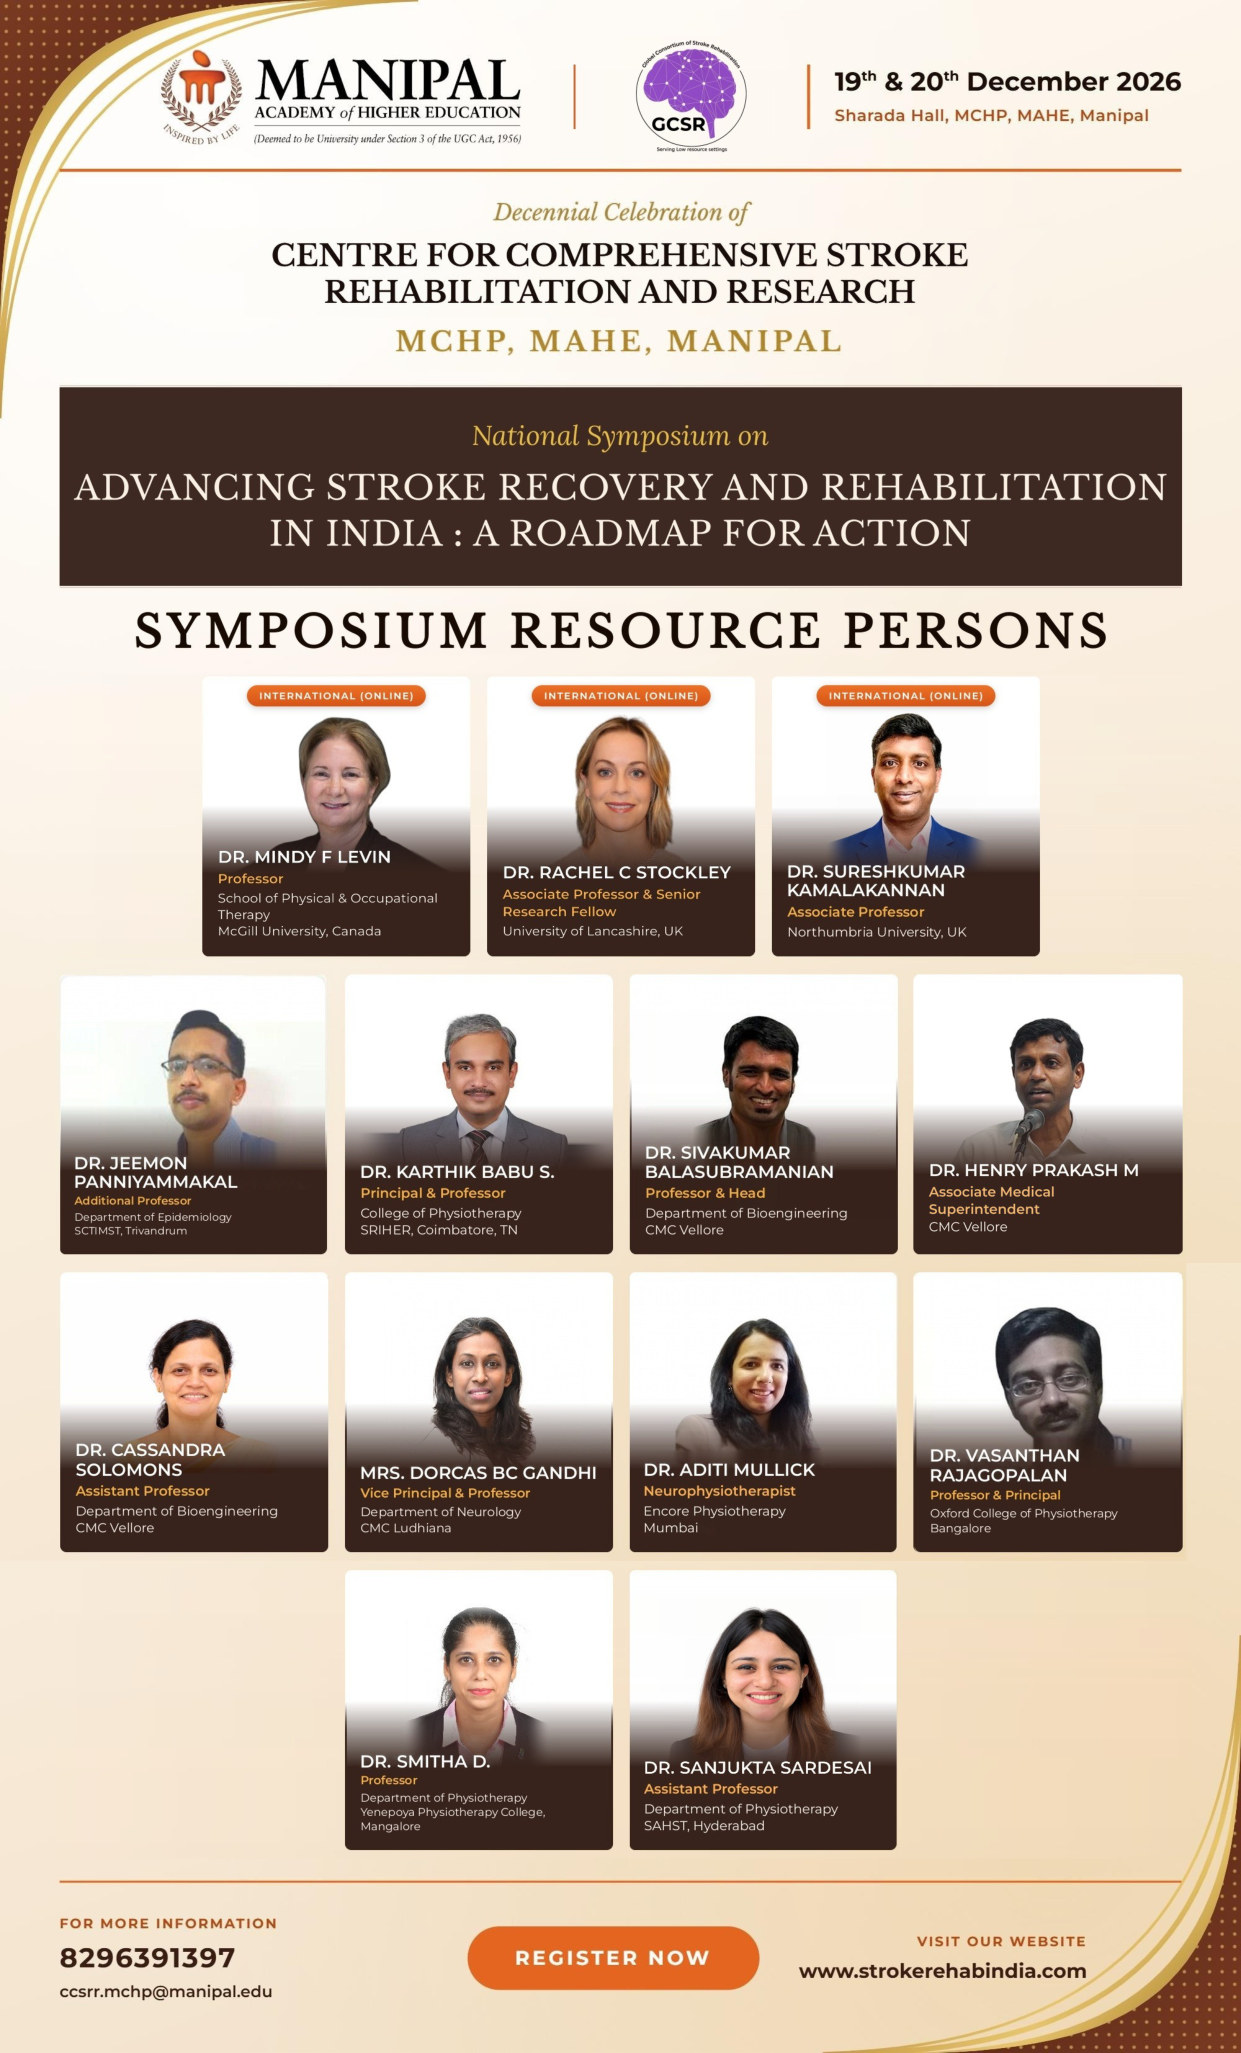
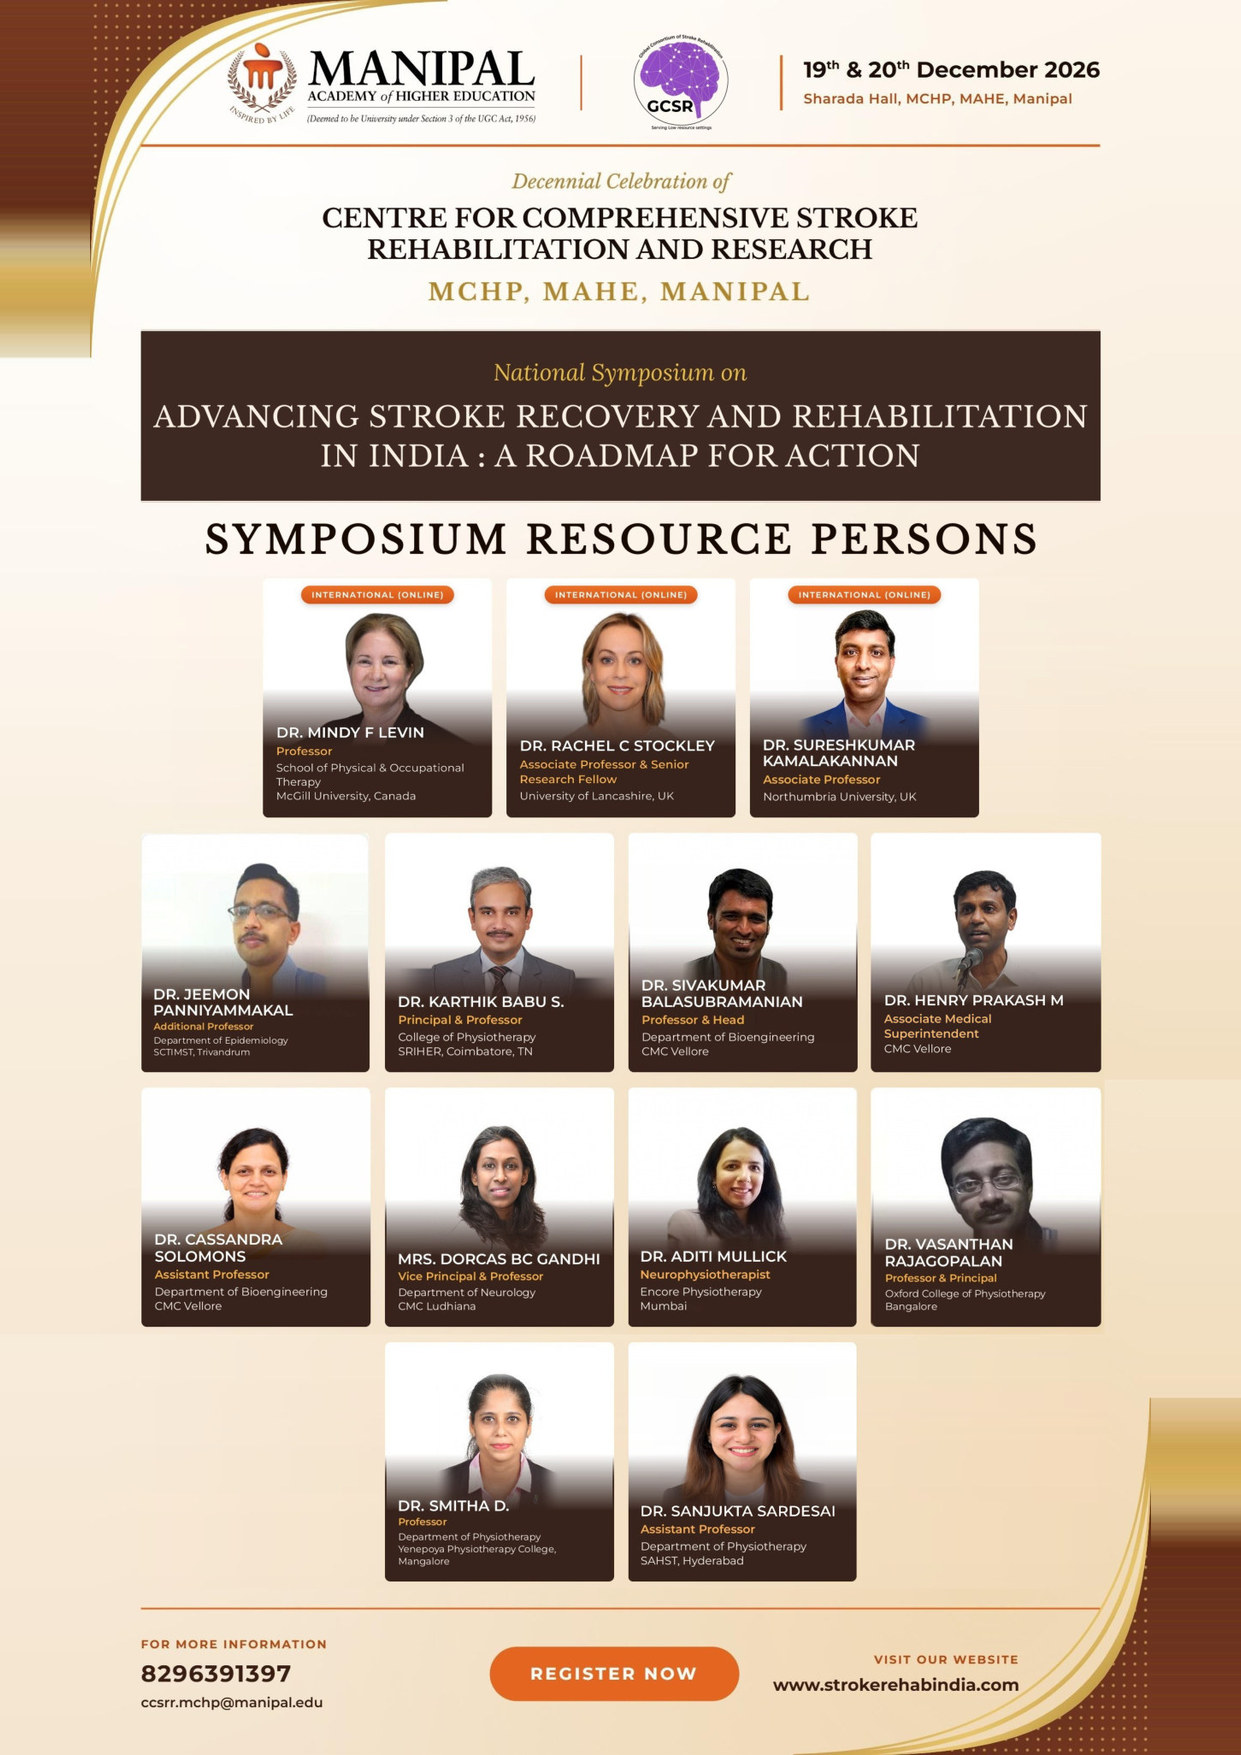
Make all three speakers pages the same size

diff --git a/frontend/src/components/SymposiumSpeakers.tsx b/frontend/src/components/SymposiumSpeakers.tsx
@@ -10,7 +10,7 @@ const pages = [1, 2, 3].map((page) => ({
   src: `/symposium/stroke-symposium-2026-speakers-p${page}.jpg`,
   alt: `National Stroke Symposium 2026 speakers — page ${page}`,
   width: 1241,
-  height: page === 1 ? 2053 : 1755,
+  height: 1755,
 }));
 
 export default function SymposiumSpeakers() {
